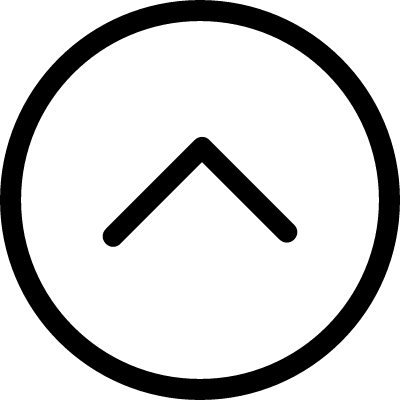
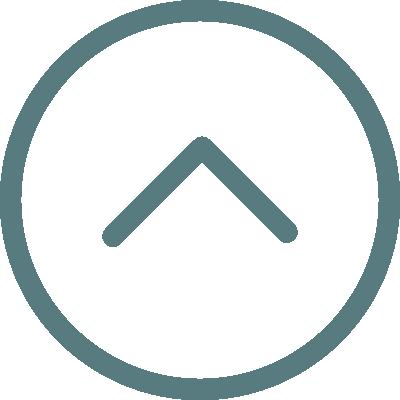
ct prev com

Changed region(s): [[0.0, 0.0, 1.0, 1.0], [0.24, 0.33, 0.75, 0.63]]

diff --git a/css/home.css b/css/home.css
@@ -177,10 +177,10 @@ h2 {
 }
 
 .backToTop {
-    padding: 0 100px;
     color: #587b7f;
+    line-height: 0;
 }
 
 .upArrow {
-    max-width: 40%;
+    max-width: 12%;
 }
